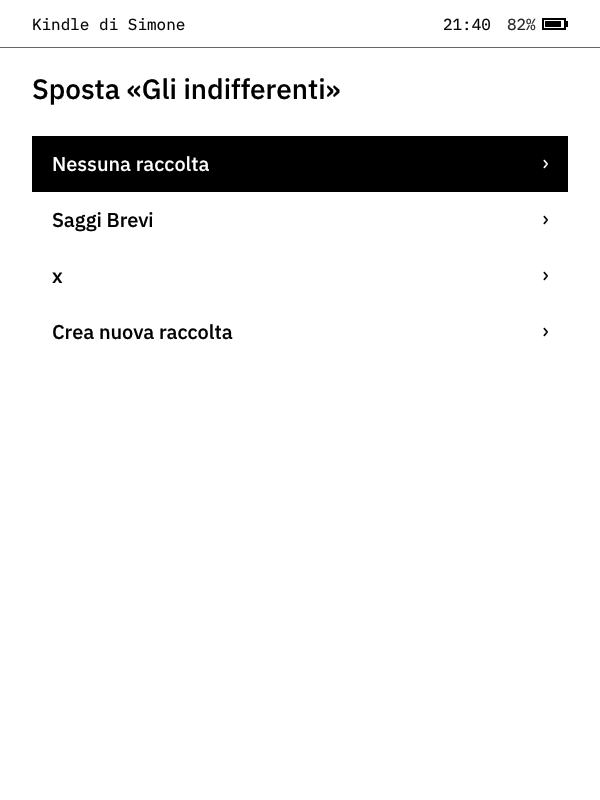
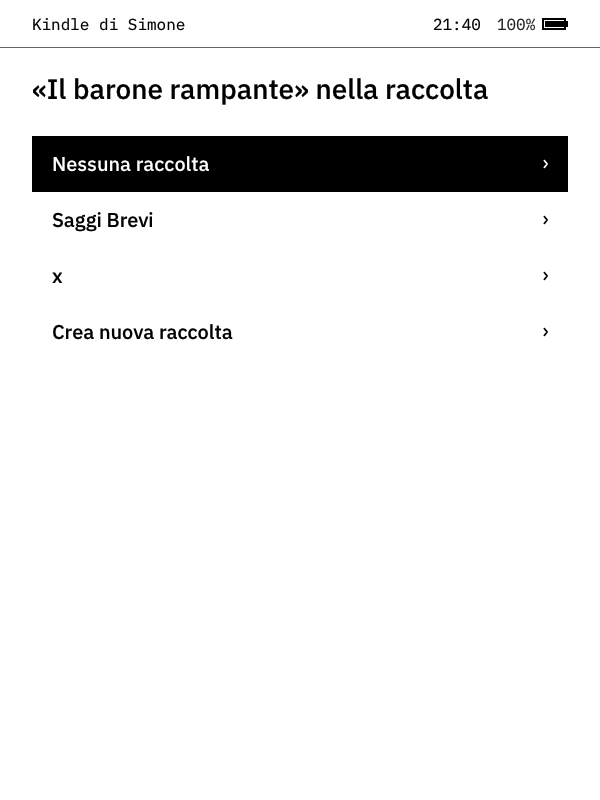
Follow the new Home menu in Figma (v0.4.1)
Claude-Session: https://claude.ai/code/session_017ad5J4fR8Z3br3R8tAxccF

Changed region(s): [[0.06, 0.0938, 0.81, 0.125], [0.72, 0.0, 0.81, 0.0625], [0.84, 0.0, 0.87, 0.0312]]

diff --git a/src/app.c b/src/app.c
@@ -245,25 +245,29 @@ typedef struct {
 #define PANEL_END -100
 
 /* "Pannello menu": rows over the bottom of the screen, focus = black row.
- * Returns the chosen row; -1 closed; -2 (+ *key) for Left/Right on the 'stepper' row;
+ * Rows in 'steppers' (bit i = row i) show their value as "‹  value  ›" and change with left/right.
+ * Returns the chosen row (in *sel too); -1 closed; -2 (+ *key) for Left/Right on a stepper row;
  * PANEL_END (+ *key) for Home, timeout, quit. */
-static int panel_run(App *a, Row *rows, int n, int sel, const char *footer_l, const char *footer_c,
-                     const char *footer_r, double frac, int stepper, Key *key)
+static int panel_run(App *a, Row *rows, int n, int *selp, const char *footer_l, const char *footer_c,
+                     const char *footer_r, double frac, unsigned steppers, Key *key)
 {
     int h = 1 + 16 + n * 56 + 16 + 48;
     int y0 = a->H - h;
+    int sel = *selp;
     for (;;) {
+        *selp = sel;
         canvas_fill(&a->cv, 0, y0, a->W, h, G_CARTA);
         canvas_fill(&a->cv, 0, y0, a->W, 1, G_CENERE);
         for (int i = 0; i < n; i++) {
             char val[64];
             const char *v = rows[i].value;
-            if (i == sel && i == stepper) {
+            int step = (steppers >> i) & 1;
+            if (step) {
                 snprintf(val, sizeof val, "\xE2\x80\xB9  %s  \xE2\x80\xBA", rows[i].value);
                 v = val;
             }
-            ui_menu_row(&a->cv, 16, y0 + 17 + i * 56, a->W - 32, rows[i].label, v,
-                        i == stepper ? ICON_NONE : rows[i].icon, i == sel);
+            ui_menu_row(&a->cv, 16, y0 + 17 + i * 56, a->W - 32, rows[i].label, v, step ? ICON_NONE : rows[i].icon,
+                        i == sel);
         }
         if (footer_l || footer_r)
             ui_progress(&a->cv, 48, a->W - 96, a->H - 8, footer_l, NULL, footer_r, frac, G_SMOG);
@@ -288,7 +292,7 @@ static int panel_run(App *a, Row *rows, int n, int sel, const char *footer_l, co
                 return sel;
             if (k == K_BACK || k == K_MENU)
                 return -1;
-            if ((k == K_LEFT || k == K_RIGHT) && sel == stepper) {
+            if ((k == K_LEFT || k == K_RIGHT) && ((steppers >> sel) & 1)) {
                 *key = k;
                 return -2;
             }
@@ -1322,7 +1326,7 @@ static int reader_menu(App *a)
         snprintf(left, sizeof left, "%d%%", percent_of(a));
         snprintf(right, sizeof right, "pagina %d di %d", p, t);
         Key k = K_NONE;
-        int r = panel_run(a, rows, M_N, sel, left, NULL, right, percent_of(a) / 100.0, M_SIZE, &k);
+        int r = panel_run(a, rows, M_N, &sel, left, NULL, right, percent_of(a) / 100.0, 1u << M_SIZE, &k);
         switch (r) {
         case -2: /* left/right on the size row */
             change_size(a, k == K_RIGHT ? 1 : -1);
@@ -1489,7 +1493,6 @@ static void pile_add(Cell *c, LibEntry *e)
 
 /* Cells of a view: folder NULL and !read_view = Home; read_view = books already read; else that folder. */
 static int collections(App *a, char names[][128], int max);
-static int to_read_has(App *a, const char *path);
 
 static int build_cells(App *a, const char *folder, int read_view, Cell **out)
 {
@@ -1640,11 +1643,7 @@ static void draw_cell(App *a, const Cell *c, float x, float y, int focus)
             snprintf(left, sizeof left, "%d%%", e->percent);
         else {
             badge = !g_sim && time(NULL) - e->mtime < 7 * 86400; /* arrived this week */
-            if (to_read_has(a, e->path)) {
-                snprintf(left, sizeof left, "Da leggere");
-                badge = 0;
-            } else
-                snprintf(left, sizeof left, badge ? "NUOVO" : "Nuovo");
+            snprintf(left, sizeof left, badge ? "NUOVO" : "Nuovo");
         }
         int p = pages_of(a, e);
         snprintf(right, sizeof right, p == 1 ? "%d pagina" : "%d pagine", p);
@@ -1767,8 +1766,9 @@ static int cmp_entry_title(const void *x, const void *y)
     return strcasecmp(a->title ? a->title : "", b->title ? b->title : "");
 }
 
-/* "Sposta libri": choose a book, then the collection (or none). Returns 1 if a book moved. */
-static int move_books(App *a)
+/* "Aggiungi alla raccolta": the focused book (or, on a collection, a book chosen from the list) goes
+ * into a collection (or out of it). Returns 1 if a book moved. */
+static int move_books(App *a, LibEntry *focus)
 {
     if (a->lib.n == 0)
         return 0;
@@ -1784,7 +1784,13 @@ static int move_books(App *a)
         items[i].value = where[i];
     }
     int moved = 0;
-    int r = list_run(a, a->name, "Sposta libri", items, a->lib.n, 0, NULL);
+    int r = -1;
+    if (focus) {
+        for (int i = 0; i < a->lib.n; i++)
+            if (books[i] == focus)
+                r = i;
+    } else
+        r = list_run(a, a->name, "Aggiungi alla raccolta", items, a->lib.n, 0, NULL);
     if (r >= 0) {
         LibEntry *e = books[r];
         char (*names)[128] = xcalloc(64, 128);
@@ -1795,7 +1801,7 @@ static int move_books(App *a)
             dest[i + 1].label = names[i];
         dest[nc + 1].label = "Crea nuova raccolta";
         char title[160];
-        snprintf(title, sizeof title, "Sposta «%s»", e->title);
+        snprintf(title, sizeof title, "«%s» nella raccolta", e->title);
         int d = list_run(a, a->name, title, dest, nc + 2, 0, NULL);
         char target[128] = "";
         int ok = d >= 0;
@@ -1836,124 +1842,73 @@ static int move_books(App *a)
     return moved;
 }
 
-/* Books to read ("Aggiungi libro da leggere"): dati/da_leggere.tsv, one path per line. */
-static int to_read_has(App *a, const char *path)
+static void sort_step(App *a, int dir) { a->sort = (a->sort + (dir > 0 ? 1 : 2)) % 3; }
+
+static void goal_step(App *a, int dir)
 {
-    char p[700], line[1100];
-    snprintf(p, sizeof p, "%s/da_leggere.tsv", a->data);
-    FILE *f = fopen(p, "r");
-    int found = 0;
-    while (f && !found && fgets(line, sizeof line, f)) {
-        line[strcspn(line, "\r\n")] = 0;
-        found = strcmp(line, path) == 0;
-    }
-    if (f)
-        fclose(f);
-    return found;
+    int i = 0;
+    while (i < NGOALS && GOALS[i] < a->goal_min)
+        i++;
+    i = (i + dir + NGOALS) % NGOALS;
+    a->goal_min = GOALS[i];
 }
 
-static void to_read_toggle(App *a, const char *path)
+/* "Salva come finito": the focused book goes among the books read. */
+static void mark_finished(App *a, LibEntry *e)
 {
-    char p[700], tmp[720], line[1100];
-    snprintf(p, sizeof p, "%s/da_leggere.tsv", a->data);
-    snprintf(tmp, sizeof tmp, "%s.nuovo", p);
-    int had = to_read_has(a, path);
-    FILE *in = fopen(p, "r"), *out = fopen(tmp, "w");
-    if (!out) {
-        if (in)
-            fclose(in);
-        return;
-    }
-    while (in && fgets(line, sizeof line, in)) {
-        line[strcspn(line, "\r\n")] = 0;
-        if (*line && strcmp(line, path) != 0)
-            fprintf(out, "%s\n", line);
-    }
-    if (in)
-        fclose(in);
-    if (!had)
-        fprintf(out, "%s\n", path);
-    fclose(out);
-    rename(tmp, p);
+    e->percent = 100;
+    e->last_read = time(NULL);
+    library_save_positions(&a->lib, a->data);
+    log_msg("marked as finished: %s", e->path);
+    message(a, "Salvato come finito", e->title, REFRESH_PARTIAL);
+    input_wait(1500, NULL);
 }
 
-/* "Aggiungi libro da leggere": the books not started yet; choosing one marks it "Da leggere"
- * (choosing it again removes the mark). Returns 1 if something changed. */
-static int add_to_read(App *a)
+/* Home menu ("00 Home Menù", the instance in Simone's frame): texts, values and icons exactly as in
+ * Figma. 'focus' is the book with the focus in the grid (NULL on a collection).
+ * Returns 1 to read the library again, 2 to exit, 0 otherwise. */
+static int home_menu(App *a, LibEntry *focus)
 {
-    LibEntry **books = xcalloc(a->lib.n + 1, sizeof(LibEntry *));
-    int n = 0;
-    for (int i = 0; i < a->lib.n; i++)
-        if (a->lib.e[i].percent < 0)
-            books[n++] = &a->lib.e[i];
-    if (n == 0) {
-        free(books);
-        message(a, "Nessun libro da iniziare", "Tutti i libri sono già iniziati.", REFRESH_PARTIAL);
-        input_wait(3000, NULL);
-        return 0;
-    }
-    qsort(books, n, sizeof(LibEntry *), cmp_entry_title);
-    ListItem *items = xcalloc(n, sizeof(ListItem));
-    int changed = 0, sel = 0;
-    for (;;) {
-        for (int i = 0; i < n; i++) {
-            items[i].label = books[i]->title;
-            items[i].value = to_read_has(a, books[i]->path) ? "Da leggere" : "";
-        }
-        int r = list_run(a, a->name, "Aggiungi libro da leggere", items, n, sel, NULL);
-        if (r < 0)
-            break;
-        to_read_toggle(a, books[r]->path);
-        changed = 1;
-        sel = r;
-    }
-    free(items);
-    free(books);
-    return changed;
-}
-
-/* Home menu ("00 Home Menù", Pannello menu Property 1=Home): texts, values and icons exactly as in
- * Figma. Returns 1 to read the library again, 2 to exit, 0 otherwise. */
-static int home_menu(App *a)
-{
-    enum { H_SORT, H_GOAL, H_NEWCOLL, H_MOVE, H_TOREAD, H_SETTINGS, H_N };
+    enum { H_SORT, H_GOAL, H_NEWCOLL, H_ADDCOLL, H_FINISHED, H_SETTINGS, H_N };
     Row rows[H_N] = {
-        { "Ordina per", "", ICON_ARROW },
-        { "Obbiettivo giornaliero", "", ICON_ARROW },
+        { "Ordina per", "", ICON_NONE },
+        { "Obbiettivo giornaliero", "", ICON_NONE },
         { "Crea nuova raccolta", "", ICON_PLUS },
-        { "Sposta libri", "", ICON_ARROW },
-        { "Aggiungi libro da leggere", "", ICON_PLUS },
-        { "Impostazioni", "", ICON_PLUS },
+        { "Aggiungi alla raccolta", "", ICON_ARROW },
+        { "Salva come finito", "", ICON_PLUS },
+        { "Tutte le impostazioni", "", ICON_ARROW },
     };
     char ver[48];
     snprintf(ver, sizeof ver, "Carbonella %s", CARBONELLA_VERSION);
-    int sel = 0;
+    int sel = 0, changed = 0;
     for (;;) {
         snprintf(rows[H_SORT].value, sizeof rows[H_SORT].value, "%s", SORTS[a->sort]);
-        snprintf(rows[H_GOAL].value, sizeof rows[H_GOAL].value, "%d minuti", a->goal_min);
+        snprintf(rows[H_GOAL].value, sizeof rows[H_GOAL].value, "%d m", a->goal_min);
         Key k = K_NONE;
-        int r = panel_run(a, rows, H_N, sel, NULL, ver, NULL, 0, -1, &k);
-        if (r >= 0)
-            sel = r;
-        switch (r) {
-        case H_SORT:
-            a->sort = (a->sort + 1) % 3;
-            save_prefs(a);
-            continue;
-        case H_GOAL: {
-            int i = 0;
-            while (i < NGOALS && GOALS[i] <= a->goal_min)
-                i++;
-            a->goal_min = GOALS[i % NGOALS];
-            save_prefs(a);
+        int r = panel_run(a, rows, H_N, &sel, NULL, ver, NULL, 0, (1u << H_SORT) | (1u << H_GOAL), &k);
+        int dir = k == K_LEFT ? -1 : 1;
+        if (r == -2 || r == H_SORT || r == H_GOAL) { /* left/right, or centre = next value */
+            if (sel == H_SORT)
+                sort_step(a, dir);
+            else
+                goal_step(a, dir);
+            save_prefs(a); /* the Home is drawn again when the menu closes */
             continue;
         }
-        case H_NEWCOLL: return create_collection(a, NULL, 0) ? 1 : 0;
-        case H_MOVE: return move_books(a) ? 1 : 0;
-        case H_TOREAD: add_to_read(a); return 0;
-        case H_SETTINGS: return settings_run(a) == 2 ? 2 : 0;
-        case PANEL_END: return k == K_HOME ? 0 : 2;
-        default: return 0;
+        switch (r) {
+        case H_NEWCOLL: return create_collection(a, NULL, 0) ? 1 : changed;
+        case H_ADDCOLL: return move_books(a, focus) ? 1 : changed;
+        case H_FINISHED:
+            if (focus && focus->percent < 100) {
+                mark_finished(a, focus);
+                return 1;
+            }
+            message(a, "Scegli prima un libro", "Metti il riquadro su una copertina e riapri il menu.", REFRESH_PARTIAL);
+            input_wait(3000, NULL);
+            return changed;
+        case H_SETTINGS: return settings_run(a) == 2 ? 2 : changed;
+        case PANEL_END: return k == K_HOME ? changed : 2;
+        default: return changed;
         }
     }
 }
@@ -2000,7 +1955,7 @@ static int grid_view(App *a, const char *folder, int read_view, LibEntry *focus)
                 break;
             }
             if (k == K_MENU) {
-                int m = home_menu(a);
+                int m = home_menu(a, NULL);
                 if (m) {
                     result = m == 1 ? GO_LIBRARY : GO_EXIT;
                     break;
@@ -2053,7 +2008,7 @@ static int grid_view(App *a, const char *folder, int read_view, LibEntry *focus)
             redraw = 1;
             continue;
         case K_MENU: {
-            int m = home_menu(a);
+            int m = home_menu(a, cells[sel].kind == CELL_BOOK ? cells[sel].e : NULL);
             if (m) {
                 result = m == 1 ? GO_LIBRARY : GO_EXIT;
                 goto out;

diff --git a/src/carbonella.h b/src/carbonella.h
@@ -18,7 +18,7 @@
 #include <stddef.h>
 #include <stdint.h>
 
-#define CARBONELLA_VERSION "0.4.0"
+#define CARBONELLA_VERSION "0.4.1"
 
 /* ------------------------------------------------------------------ util */
 
@@ -156,7 +156,7 @@ int font_draw_text(Canvas *c, Face f, int size, int x, int baseline, const char 
 
 /* -------------------------------------------------------------------- ui */
 
-extern int g_sim; /* simulator: fixed clock (21:40) and battery (82%), as in the Figma frames */
+extern int g_sim; /* simulator: fixed clock (21:40) and battery (100%), as in the Figma frames */
 
 typedef enum { ICON_NONE, ICON_ARROW, ICON_PLUS } MenuIcon;
 

diff --git a/src/ui.c b/src/ui.c
@@ -26,7 +26,7 @@ int ui_baseline(Face f, int size, float top, float lh)
 static int battery_percent(void)
 {
     if (g_sim)
-        return 82;
+        return 100; /* as in the Figma frames */
     char *s = read_file("/sys/devices/system/yoshi_battery/yoshi_battery0/battery_capacity", NULL);
     int v = s ? atoi(s) : -1;
     free(s);

diff --git a/diario/2026-11-17-v04-menu-di-figma.md b/diario/2026-11-17-v04-menu-di-figma.md
@@ -13,7 +13,7 @@ ancora, la si fa funzionare, non la si cambia.** (Salvata anche nella memoria de
 
 ## Tempo
 
-01:02–01:15 UTC del 17/11 (circa 15 minuti, Claude).
+01:02–01:25 UTC del 17/11 (circa 25 minuti, Claude), compresa la v0.4.1.
 
 ## Le voci, lette da Figma
 
@@ -49,15 +49,24 @@ Lette direttamente dalle proprietà delle "Voce menu" nei due pannelli (testo, v
 |---|---|---|---|
 | ![](img/2026-11-17-v04-menu-home.png) | ![](img/2026-11-17-v04-menu-lettura.png) | ![](img/2026-11-17-v04-segnalibro.png) | ![](img/2026-11-17-v04-vai-a-pagina.png) |
 
-| Tastiera | Cerca nel libro | Sposta libri | Libri da leggere |
+| Tastiera | Cerca nel libro | Aggiungi alla raccolta | |
 |---|---|---|---|
-| ![](img/2026-11-17-v04-tastiera.png) | ![](img/2026-11-17-v04-cerca.png) | ![](img/2026-11-17-v04-sposta-libri.png) | ![](img/2026-11-17-v04-da-leggere.png) |
+| ![](img/2026-11-17-v04-tastiera.png) | ![](img/2026-11-17-v04-cerca.png) | ![](img/2026-11-17-v04-sposta-libri.png) | |
 
 ## Verifiche fatte qui
 
 - `make prova` con un giro nuovo che usa tutte le voci dei due menu.
 - AddressSanitizer + UBSan su due giri lunghi: nessun errore.
 - Compilazione ARM (256 KB) e prova in emulazione.
+
+## v0.4.1: il menu Home cambiato da Simone
+
+Mentre costruivo le schermate v0.4 in Figma ho visto che il pannello della Home era cambiato (Simone ci
+stava lavorando): **Ordina per ‹ Più recente ›**, **Obbiettivo giornaliero ‹ 30 m ›**, Crea nuova raccolta +,
+**Aggiungi alla raccolta ›**, **Salva come finito +**, **Tutte le impostazioni ›**. La v0.4.1 segue il frame
+nuovo: le prime due voci si cambiano con sinistra/destra; "Aggiungi alla raccolta" e "Salva come finito"
+valgono per il libro con il riquadro. "Aggiungi libro da leggere" non c'è più, quindi la domanda su cosa
+dovesse fare è risolta. Lezione: rileggere Figma subito prima di ogni versione, non solo all'inizio.
 
 ## Da fare
 

diff --git a/CHANGELOG.md b/CHANGELOG.md
@@ -2,6 +2,17 @@
 
 Le versioni seguono lo schema `MAGGIORE.MINORE.CORREZIONE`. Finché siamo a `0.x` tutto può cambiare.
 
+## v0.4.1 · 2026-11-17
+
+Simone ha cambiato il menu della Home in Figma mentre preparavo la v0.4.0: ora è come il nuovo frame.
+
+- **Menu della Home**: Ordina per ‹ Più recente ›, Obbiettivo giornaliero ‹ 30 m › (si cambiano con
+  sinistra/destra), Crea nuova raccolta, Aggiungi alla raccolta, Salva come finito, Tutte le impostazioni.
+  - *Aggiungi alla raccolta* e *Salva come finito* valgono per il libro con il riquadro nella Home.
+  - Tolte "Sposta libri" e "Aggiungi libro da leggere" (non sono più nel design).
+- Dimensione carattere nel menu di lettura sempre come "‹ 20 pt ›", come nel frame.
+- Nel simulatore la batteria è al 100%, come nei frame aggiornati.
+
 ## v0.4.0 · 2026-11-17 · "I menu di Figma"
 
 Simone: *"perché se in Figma il menù ha delle scritte tu le devi cambiare"*. Da ora i testi e l'ordine
